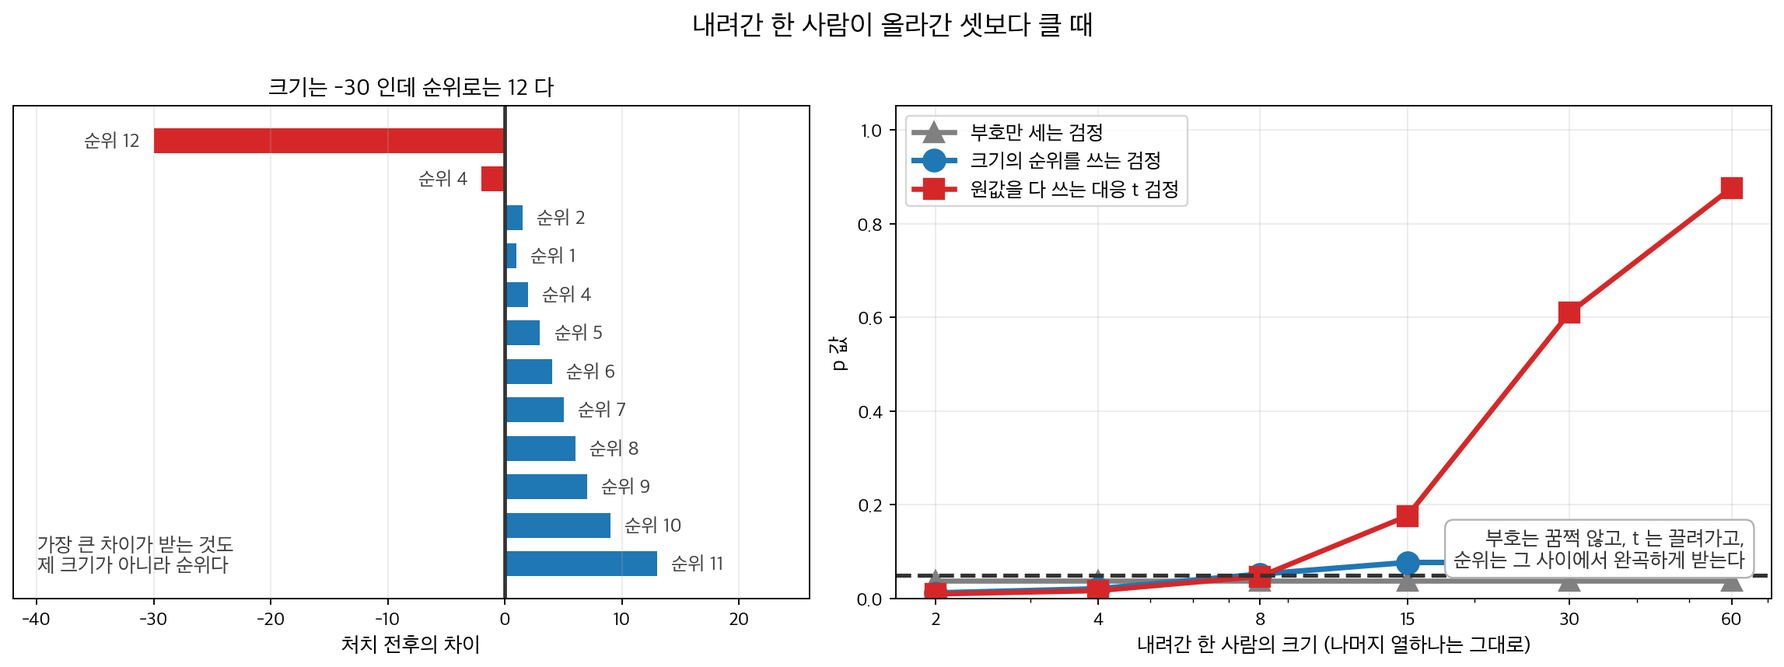
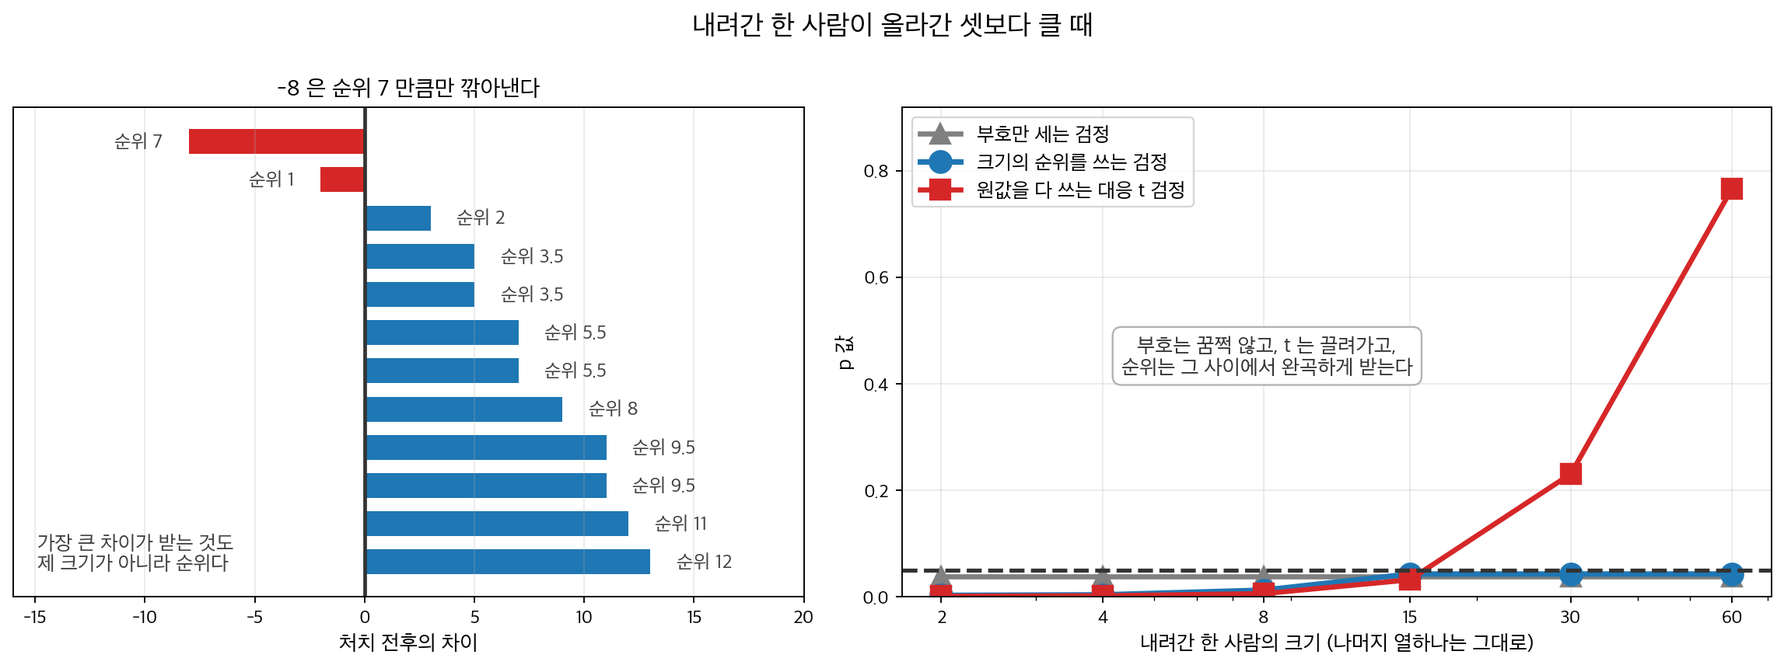
fix(ch16): 보고만 해 두었던 항목을 마무리한다
둘째 정독 패스가 고치지 않고 남긴 항목을 하나씩 판정해 끝냈다. 이미 닫힌 것과 보고가
틀린 것은 건드리지 않았고, 펜스를 고친 쪽은 실제로 돌린 출력을 붙여 verify_outputs 로
맞췄다. 그림을 다시 그린 것은 스크립트와 함께 담았다. 바깥 사실은 확인한 출처로만 고쳤다.

diff --git a/scripts/make_ch16_leadbox_figures_b.py b/scripts/make_ch16_leadbox_figures_b.py
@@ -273,7 +273,9 @@ save(fig, PAIR + "p_forgets_what_was_dropped.png")
 # 쪽들보다 클 때 둘을 어떻게 저울질할 것인가」 — 은 그려져 있지 않다.
 # 그 하나의 크기를 손잡이로 돌리면 세 검정이 저마다 다르게 반응한다.
 # ════════════════════════════════════════════════════════════════════
-BASE11 = np.array([13., 9., 7., 6., 5., 4., 3., 2., 1., 1.5, -2.])
+# 쪽의 보기 1 자료(7, 3, -2, 7, 5, 5, 9, -8, 11, 11, 12, 13)에서 -8 을 뺀 열하나.
+# 들머리 본문이 그 자료의 -8(순위 7)을 말하므로 같은 자료로 그린다.
+BASE11 = np.array([13., 12., 11., 11., 9., 7., 7., 5., 5., 3., -2.])
 DROPS = np.array([2, 4, 8, 15, 30, 60], float)
 p_sign, p_sr, p_t = [], [], []
 for d in DROPS:
@@ -291,20 +293,20 @@ for d, a, b, c in zip(DROPS, p_sign, p_sr, p_t):
 
 fig, (ax1, ax2) = plt.subplots(1, 2, figsize=(13.6, 5.0),
                                gridspec_kw={"width_ratios": [1, 1.1]})
-show = np.r_[BASE11, -30.0]
+show = np.r_[BASE11, -8.0]
 rk = stats.rankdata(np.abs(show))
 ax1.barh(np.arange(len(show)), show,
          color=["tab:blue" if v > 0 else "tab:red" for v in show],
          height=0.65)
 for i, v in enumerate(show):
-    ax1.text(v + (1.2 if v > 0 else -1.2), i, f"순위 {rk[i]:.0f}",
+    ax1.text(v + (1.2 if v > 0 else -1.2), i, f"순위 {rk[i]:g}",  # 중간순위 3.5 를 4 로 반올림하지 않는다
              ha="left" if v > 0 else "right", va="center", fontsize=10.5,
              color="0.25", fontweight="bold")
 ax1.axvline(0, color="0.2", lw=2.0)
 ax1.set_yticks([])
-ax1.set_xlim(-42, 26)
+ax1.set_xlim(-16, 20)
 ax1.set_xlabel("처치 전후의 차이", fontsize=11.5)
-ax1.set_title("크기는 -30 인데 순위로는 12 다", fontsize=12.5)
+ax1.set_title("-8 은 순위 7 만큼만 깎아낸다", fontsize=12.5)
 ax1.grid(axis="x", alpha=0.25)
 ax1.text(0.03, 0.05, "가장 큰 차이가 받는 것도\n제 크기가 아니라 순위다",
          transform=ax1.transAxes, ha="left", va="bottom", fontsize=11,
@@ -325,9 +327,9 @@ ax2.set_ylabel("p 값", fontsize=11.5)
 ax2.set_ylim(0, max(p_t) * 1.2)
 ax2.legend(fontsize=11, loc="upper left")
 ax2.grid(alpha=0.25)
-ax2.text(0.97, 0.06, "부호는 꿈쩍 않고, t 는 끌려가고,\n"
+ax2.text(0.42, 0.45, "부호는 꿈쩍 않고, t 는 끌려가고,\n"
          "순위는 그 사이에서 완곡하게 받는다", transform=ax2.transAxes,
-         ha="right", va="bottom", fontsize=11.3, color="0.2",
+         ha="center", va="bottom", fontsize=11.3, color="0.2",
          fontweight="bold",
          bbox=dict(boxstyle="round,pad=0.42", fc="white", ec="0.7"))
 

diff --git a/docs/ch16/one_sample_nonparametric/wilcoxon_signed_rank.md b/docs/ch16/one_sample_nonparametric/wilcoxon_signed_rank.md
@@ -1622,9 +1622,9 @@ $$
     method='approx' (동점 보정 분산): 0.007579
     ```
 
-    **손으로 센 $20/4096 = 0.004883$ 이 SciPy 의 정확계산과 소수 여섯째 자리까지 같다.** 그리고 0 을 그대로 둔 호출이 `method="approx"` 와 **똑같은 값**을 돌려준다는 것이 갈아탔다는 증거다.
+    **손으로 센 $20/4096 = 0.004883$ 이 SciPy 의 정확계산과 소수 여섯째 자리까지 같다.** 다만 이 일치는 이 자료의 우연이다. SciPy(1.13)의 `method="exact"` 는 중간순위를 보지 않고 동점이 없는 정수 순위 $1, \ldots, 12$ 의 귀무분포를 쓰는데, 이 자료에서는 그 분포에서도 $W^- \le 5$ 인 배정이 똑같이 열 가지다. 동점이 경계에 걸리는 자료, 예컨대 $D = (2, -2, -1, 1, -3, -3, -3, -2)$ 에서는 중간순위 조건부 분포의 양측 $p$ 가 $0.1016$ 인데 SciPy 는 경고 없이 $0.0781$ 을 돌려준다. 그리고 0 을 그대로 둔 호출이 `method="approx"` 와 **똑같은 값**을 돌려준다는 것이 갈아탔다는 증거다.
 
-    교훈이 둘이다. 첫째, **SciPy 에서 정확검정을 막는 것은 동점이 아니라 0 이다.** 동점은 순위를 중간순위로 묶어 놓을 뿐이고 그 위에서 부호를 뒤집는 조건부 분포는 떳떳하게 정확하다. 0 은 어느 `zero_method` 를 쓰느냐에 따라 $n$ 과 귀무분포 자체가 달라지므로 SciPy 가 정확분포를 하나로 정하지 않는다(0 의 개수를 조건으로 한 정확분포는 있다 — 「한 줄로 처리된 영」 상자가 손으로 세었다). 둘째, `method="exact"` 를 적었다고 정확검정이 돌았다는 보장이 없다. 돌아온 값이 `method="approx"` 와 같은지 한 번 견주어 보는 것이 값싼 보험이다.
+    교훈이 둘이다. 첫째, **SciPy 에서 정확검정을 막는 것은 동점이 아니라 0 이다.** 동점은 순위를 중간순위로 묶어 놓을 뿐이고 그 위에서 부호를 뒤집는 조건부 분포는 떳떳하게 정확하다 — 다만 SciPy 는 그 분포를 세지 않으므로 동점이 있으면 위처럼 손으로 세는 편이 안전하다. 0 은 어느 `zero_method` 를 쓰느냐에 따라 $n$ 과 귀무분포 자체가 달라지므로 SciPy 가 정확분포를 하나로 정하지 않는다(0 의 개수를 조건으로 한 정확분포는 있다 — 「한 줄로 처리된 영」 상자가 손으로 세었다). 둘째, `method="exact"` 를 적었다고 정확검정이 돌았다는 보장이 없다. 돌아온 값이 `method="approx"` 와 같은지 한 번 견주어 보는 것이 값싼 보험이다.
 
 ---
 
@@ -1750,7 +1750,7 @@ $$
 
     정규에서 $t$ 검정이 $0.7214$, 부호순위가 $0.6985$ 로 $0.0229$ 앞선다. $n$ 을 **하나만** 늘려 $21$ 로 하면 $0.7152$ 가 되어 차이가 $-0.0062$ 로 줄어든다. 한 칸의 모의표준오차가 $\sqrt{0.72 \cdot 0.28/50000} = 0.0020$ 이고 게다가 (1) 에서 본 대로 $n = 21$ 쪽이 실제 수준 $0.045993$ 으로 불리하게 출발하니, **$3/\pi$ 가 예측한 "$4.7\%$ 만 더" 가 그대로 맞는 셈이다.** $20 \times 1.0472 = 20.94$ 이고 올림하면 $21$ 이다.
 
-    꼬리가 두꺼워지면 방향이 뒤집힌다. 라플라스에서 이미 $0.7988$ 대 $0.7388$ 로 부호순위가 앞서고($\delta$ 를 고정한 채 분산만 1 로 맞추었다), $t_3/\sqrt{3}$ 에서 $0.8883$ 대 $0.8014$, 코시에서는 $0.2720$ 대 $0.0917$ 로 **세 배** 차이가 난다. 코시의 $t$ 검정 검정력 $0.0917$ 은 그 검정의 실제 수준 $0.0201$ 에 비하면 네 배지만 절대값으로는 거의 쓸 데가 없다.
+    꼬리가 두꺼워지면 방향이 뒤집힌다. 라플라스에서 이미 $0.7988$ 대 $0.7388$ 로 부호순위가 앞서고($\delta$ 를 고정한 채 분산만 1 로 맞추었다), $t_3/\sqrt{3}$ 에서 $0.8883$ 대 $0.8014$, 코시에서는 $0.2720$ 대 $0.0917$ 로 **세 배** 차이가 난다. 코시의 $t$ 검정 검정력 $0.0917$ 은 그 검정의 실제 수준 $0.0201$ 에 비하면 네 배 반이지만 절대값으로는 거의 쓸 데가 없다.
 
     **그래서 비모수를 고르는 일은 보험을 드는 일이다.** 정규일 때 내는 보험료는 표본 $4.7\%$ — 스무 명 모으는 연구에 한 명 더 — 이고, 받는 보상은 꼬리가 두꺼워질 때 검정력이 무너지지 않는 것이다. 연습문제 11 이 이 자료에서 "$t$ < 윌콕슨 < 부호검정 순으로 p 값이 커진다" 고 적은 것은 **그 자료가 정규에 가까웠기 때문**이고, 서열 자체가 법칙은 아니다. 라플라스 한 줄만 보아도 뒤집힌다.
 
@@ -1885,7 +1885,7 @@ $$
 
 <div class="drillbox" markdown>
 
-**연습문제 17.** <span class="diff med" title="중간"></span> `stats.wilcoxon`이 반환하는 `statistic`이 $W^+$가 아니라
+**연습문제 17.** <span class="diff med" title="중간"></span> 양측검정에서 `stats.wilcoxon`이 반환하는 `statistic`이 $W^+$가 아니라
 $\min(W^+, W^-)$임을 확인하고, `alternative`를 바꾸면 무엇이 달라지는지 조사하라.
 
 </div>

diff --git a/docs/ch16/correlation/spearman.md b/docs/ch16/correlation/spearman.md
@@ -6,7 +6,7 @@
 
 한 분석가가 직원 $8$ 명의 경력과 고객만족도를 늘어놓고 순위로 바꾼다. 그런데 경력에서는 $8$ 이 두 번, $10$ 이 두 번 나오고 만족도에서도 $6$, $8$, $9$ 가 각각 두 번씩 나온다. 교과서가 외우게 하는 축약 공식에 이 자료를 넣으면 $0.393$ 이 나오는데, 참값은 $0.374$ 다.
 
-어디서 어긋나는지는 식을 풀면 보인다. 축약 공식은 **「평균을 뺀 순위의 제곱합(sum of squares)이 양쪽 모두 $42$ 다」**라는 사실을 몰래 쓰고 있다. 같은 값이 섞이면 그 제곱합이 $41$ 과 $40.5$ 로 **줄어드는데** 공식은 여전히 $42$ 를 쓰므로 참값보다 크게 나온다. 같은 값이 많아질수록 제곱합이 더 줄고 오차도 커진다. 그런 자료에서는 중간순위에 피어슨 공식을 그대로 적용하는 것이 맞다.
+어디서 어긋나는지는 식을 풀면 보인다. 축약 공식은 **「평균을 뺀 순위의 제곱합(sum of squares)이 양쪽 모두 $42$ 다」**라는 사실을 몰래 쓰고 있다. 같은 값이 섞이면 그 제곱합이 $41$ 과 $40.5$ 로 **줄어드는데** 공식은 여전히 $42$ 를 쓰므로 참값보다 크게 나온다. 같은 값이 많아질수록 제곱합이 더 줄고 오차도 평균적으로 커진다. 그런 자료에서는 중간순위에 피어슨 공식을 그대로 적용하는 것이 맞다.
 
 계수를 바로 구해도 $p$ 값에서 또 어긋날 수 있다. 관계가 완전히 단조여서 계수가 정확히 $1$ 이 되면 널리 쓰이는 근사의 분모가 $0$ 으로 가서, 여덟 쌍짜리 자료에서 $p$ 값이 $0.0$ 으로, 다섯 쌍짜리에서는 $1.4 \times 10^{-24}$ 으로 찍힌다. 순열을 전부 세어 얻은 참값은 각각 $2/40320 = 0.0000496$ 과 $2/120 = 0.0167$ 이다. 다섯 쌍으로 「$p < 10^{-23}$」을 보고하는 일이 그렇게 생긴다.
 
@@ -207,7 +207,7 @@ $$
     1 - \frac{6 \times 51}{504} = 1 - \frac{306}{504} = 0.392857
     $$
 
-    로 참값보다 $0.0186$ 크게 나온다. 동점이 많아질수록 제곱합이 더 줄고 오차가 커진다.
+    로 참값보다 $0.0186$ 크게 나온다. 동점이 많아질수록 제곱합이 더 줄고 오차가 평균적으로 커진다(두 변수의 제곱합이 다르면 오차의 부호조차 미리 정해지지 않는다 — 연습문제 6(c)).
 
     **(2) `spearmanr` 의 p 값은 $t$ 근사다.** 확인해 보면
 
@@ -855,7 +855,7 @@ $$
     \bigl(\sqrt A - \sqrt B\bigr)^2 \le D\,\frac{C - M}{C}
     $$
 
-    와 동치다. 왼쪽은 $A = B$ 일 때 $0$ 이어서 (앞의 결론처럼) 부등식이 공짜로 성립하지만, $A \ne B$ 이면 $D$ 가 충분히 커야 한다는 **조건부**가 된다. $D \ge A + B - 2M = (\sqrt A - \sqrt B)^2$ 는 코시–슈바르츠 부등식(Cauchy–Schwarz inequality)에서 늘 성립하므로 두 변이 서로 비슷한 크기로 맞서고, 따라서 $A \le C$, $B \le C$ 라는 사실만으로는 부호가 결정되지 않는다. **$A = B$ 일 때의 깔끔한 결론에 그 조건이 꼭 필요했던 까닭이 이것이다.**
+    와 동치다. 왼쪽은 $A = B$ 일 때 $0$ 이어서 (앞의 결론처럼) 부등식이 공짜로 성립하지만, $A \ne B$ 이면 $D$ 가 충분히 커야 한다는 **조건부**가 된다. $D \ge A + B - 2M = (\sqrt A - \sqrt B)^2$ 는 코시–슈바르츠 부등식(Cauchy–Schwarz inequality)에서 늘 성립하지만, 오른쪽에는 $1$ 보다 작은 인수 $(C - M)/C$ 가 곱해져 있어 이것만으로는 왼쪽을 넘는다고 말할 수 없다. 따라서 $A \le C$, $B \le C$ 라는 사실만으로는 부호가 결정되지 않는다. **$A = B$ 일 때의 깔끔한 결론에 그 조건이 꼭 필요했던 까닭이 이것이다.**
 
     실무적 결론은 그대로다. 보기 1 처럼 $A \approx B$ 인 흔한 상황에서는 축약 공식이 $r_s$ 를 위로 밀어 양의 연관을 과대평가하고, 오차의 크기는 두 항의 경쟁으로 정해져 미리 가늠하기 어렵다. 5 절의 경고가 "보정해서 쓰라" 가 아니라 **"쓰지 말라"** 인 까닭이다.
 

diff --git a/docs/ch16/multi_group_nonparametric/kruskal_wallis.md b/docs/ch16/multi_group_nonparametric/kruskal_wallis.md
@@ -357,7 +357,7 @@ $$
 - **쌍별 만–휘트니 검정** --- $\binom{k}{2}$개의 이표본 검정을 본페로니 보정과 함께 수행한다.
 
 !!! warning "전체검정을 건너뛰지 말 것"
-    사후 쌍별 비교는 크러스컬–월리스 검정이 $H_0$을 기각한 뒤에만 수행해야 한다. 전체적인 차이를 먼저 확인하지 않고 쌍별 검정을 하면 가족단위 오류율(familywise error rate)이 부풀려진다.
+    사후 쌍별 비교는 크러스컬–월리스 검정이 $H_0$을 기각한 뒤에만 수행해야 한다. 전체적인 차이를 먼저 확인하지 않고 보정 없이 쌍별 검정을 하면 가족단위 오류율(familywise error rate)이 부풀려진다. 본페로니·홀름 보정은 그 자체로 가족단위 오류율을 지키므로, 보정을 붙인다면 전체검정은 오류율을 지키는 장치라기보다 관행상의 관문이다. 그 관문을 거치면 검정이 한 번 더 보수적이 된다는 것은 [던 검정](dunn.md) 쪽의 표가 보인다.
 
 ### 작은 N 에서 카이제곱 근사는 얼마나 믿을 만한가
 
@@ -758,7 +758,7 @@ $$
 
     세 비료가 서로 다른 생장 분포를 낸다는 유의한 증거가 있다. 어느 쌍이 다른지는 사후분석(예: 던 검정)으로 판정해야 한다.
 
-    참고로 일원분산분석은 $p = 0.00106$으로 훨씬 작은 값을 준다. 이 자료가 정규성과 등분산성을 잘 만족하고 $n_i = 4$로 매우 작아, 순위로 정보를 버리는 대가가 크게 나타난 경우이다.
+    참고로 일원분산분석은 $p = 0.00106$으로 훨씬 작은 값을 준다. 이 자료에는 정규성이나 등분산성을 의심할 기색이 없고(집단 표준편차 $2.08$, $2.50$, $1.71$) $n_i = 4$로 매우 작아, 순위로 정보를 버리는 대가가 크게 나타난 경우이다.
 
 <div class="drillbox" markdown>
 
@@ -1557,7 +1557,7 @@ $$
 
     $t_2$ 에서 $H$ 는 같은 표본으로 $F$ 의 $0.4679/0.2409 = 1.94$ 배 검정력을 내고, 표본을 $5\%$ 더 주면 $2.06$ 배다. 코시분포에서는 같은 표본으로 $0.2843/0.0406 = 7.00$ 배, $5\%$ 더 주면 $7.24$ 배다. 코시분포에서 $F$ 의 검정력 $0.0406$ 은 자기 수준 $0.0185$ 보다는 높지만 명목수준 $0.05$ 에도 못 미치는 값이고, 이동이 분명히 있는 자료를 사실상 **못 보는** 상태다. (코시분포는 평균이 아예 없으므로 $F$ 가 비교하려는 대상 자체가 존재하지 않는다. 위치이동은 여전히 뜻이 있고, 순위는 그것을 본다.)
 
-    **한 문장 요약:** 정규성이 참일 때 순위로 치르는 대가는 집단당 관측값 하나($4.7\%$)이고, 꼬리가 두꺼워질 때 얻는 이득은 검정력 두 배에서 일곱 배다 — 트레이드오프(trade-off)가 이토록 한쪽으로 기울어 있다는 것이 비모수 검정을 기본값으로 삼을 만한 이유다.
+    **한 문장 요약:** 정규성이 참일 때 순위로 치르는 대가는 집단당 관측값 하나($4.7\%$)이고, 꼬리가 두꺼워질 때 얻는 이득은 검정력 두 배에서 일곱 배다 — 트레이드오프(trade-off)가 이토록 한쪽으로 기울어 있다는 것이 집단이 위치만 다를 때 비모수 검정을 기본값으로 삼을 만한 이유다(척도까지 다르면 사정이 달라진다는 것은 연습문제 9).
 
 <div class="drillbox" markdown>
 

diff --git a/docs/ch16/one_sample_nonparametric/sign_test.md b/docs/ch16/one_sample_nonparametric/sign_test.md
@@ -174,7 +174,7 @@ $$
 | $p$ | $0.50$ | $0.51$ | $0.52$ |
 |---|---|---|---|
 | 그 해에 남아가 더 많을 확률 | $0.496$ | $0.977$ | $1.000$ |
-| $82$ 해 내리 그럴 확률 | $\approx 0$ | $0.15$ | $0.997$ |
+| $82$ 해 내리 그럴 확률 | $\approx 0$ | $0.14$ | $0.997$ |
 
 $2$ 퍼센트만 기울어도 $82$ 해 연속은 거의 확실해진다. 아버스넛이 무너뜨린 것은 **정확한 반반**이었고, 그 자리를 섭리로 채운 것은 자료가 아니라 그였다. 부호검정이 주는 것은 확률이지 까닭이 아니다.
 
@@ -1366,7 +1366,7 @@ $-3, +1, -2, 0, -4, -1, +2, -5$이다. 정확 이항분포로 $\alpha = 0.05$에
 
 <div class="drillbox" markdown>
 
-**연습문제 12.** <span class="diff med" title="중간"></span> 학생 자료 보기에서 $H_a{:}\; \text{median}(D) > 0$(처치가 점수를
+**연습문제 12.** <span class="diff med" title="중간"></span> 보기 5 의 학생 자료에서 $H_a{:}\; \text{median}(D) > 0$(처치가 점수를
 높인다)인 단측검정으로 부호검정을 다시 수행하라. $\alpha = 0.05$에서 결론을 밝혀라.
 
 </div>
@@ -1539,7 +1539,7 @@ $$
 
 <div class="drillbox" markdown>
 
-**연습문제 16.** <span class="diff med" title="중간"></span> 부호검정과 윌콕슨 부호순위검정, 대응 $t$ 검정을 학생 자료에
+**연습문제 16.** <span class="diff med" title="중간"></span> 부호검정과 윌콕슨 부호순위검정, 대응 $t$ 검정을 보기 5 의 학생 자료에
 모두 적용하여 $p$ 값을 비교하고, 순서가 왜 그렇게 나오는지 설명하라.
 
 </div>
@@ -1552,8 +1552,9 @@ $$
     d = np.array([17, -2, 6, -3, 14, 0, 6, 10, 12, 8, 9, 2, 0, 3, 0])
 
     print(stats.binomtest(10, 12).pvalue)                        # 0.038574
-    print(stats.wilcoxon(d, zero_method='wilcox',
-                         method='exact').pvalue)                 # 0.007579
+    # 0 을 버리고 동점(|d| = 2, 3, 6)이 있는 그대로 2^12 가지 부호를 전부 센다
+    print(stats.wilcoxon(d[d != 0],
+          method=stats.PermutationMethod(n_resamples=np.inf)).pvalue)   # 0.004883
     print(stats.ttest_1samp(d, 0).pvalue)                        # 0.003816
     ```
 
@@ -1561,18 +1562,20 @@ $$
 
     ```
     0.03857421875
-    0.007579201614253502
+    0.0048828125
     0.003815602209766083
     ```
 
     | 검정 | 양측 $p$ 값 | 사용 정보 |
     |:---|---:|:---|
     | 부호검정 (정확) | $0.0386$ | 부호만 |
-    | 윌콕슨 부호순위 (정확) | $0.0076$ | 부호 + 순위 |
+    | 윌콕슨 부호순위 (정확) | $0.0049$ | 부호 + 순위 |
     | 대응 $t$ | $0.0038$ | 원값 |
 
     사용하는 정보량이 늘어날수록 $p$ 값이 작아진다. 이 자료에서는 그 서열이
-    깨끗하게 나타난다.
+    깨끗하게 나타난다. 윌콕슨을 `wilcoxon(d, method='exact')` 로 0 째 넘기면 SciPy 가
+    경고와 함께 정규근사로 갈아타 $0.0076$ 을 내는데, 그것은 정확값이 아니다
+    ([윌콕슨 부호순위검정](wilcoxon_signed_rank.md) 연습문제 14).
 
     **왜 이 자료가 부호검정에 특히 불리한가.** 음의 차이 두 개가 $-2$와 $-3$으로
     **절댓값이 가장 작은 축**이다. 양의 차이는 $2$부터 $17$까지 퍼져 있다.

diff --git a/docs/ch16/paired_sample_nonparametric/paired_sign.md b/docs/ch16/paired_sample_nonparametric/paired_sign.md
@@ -415,39 +415,40 @@ _확인한 곳 — 논문이 Joseph Putter 의 「The Treatment of Ties in Some 
     부호검정을 역전시키면 중앙값의 신뢰구간이 나온다. 차이를 정렬한 순서통계량 $D_{(1)} \le \cdots \le D_{(n)}$에 대해 구간은
 
     $$
-    \bigl( D_{(k+1)}, \; D_{(n-k)} \bigr)
+    \bigl[ D_{(k)}, \; D_{(n+1-k)} \bigr]
     $$
 
-    이며, $k$는 $2P(S \le k) \le \alpha$를 만족하는 가장 큰 정수이다($S \sim \text{Binomial}(n, 0.5)$).
+    이며, $k$는 $2P(S \le k-1) \le \alpha$를 만족하는 가장 큰 정수이다($S \sim \text{Binomial}(n, 0.5)$). 보기 2 의 $[d_{(k)}, d_{(11-k)}]$ 와 같은 꼴이다.
 
     ```python
     import numpy as np
     from scipy import stats
     d = np.array([4, 5, -2, 2, 7, 0, 8, 2, 3, -2])
     nz = np.sort(d[d != 0]); n = len(nz)     # n = 9
-    for k in range(0, 4):
-        print(k, 2 * stats.binom.cdf(k, n, 0.5))
-    # k=0: 0.0039, k=1: 0.0391, k=2: 0.1797  →  k = 1
+    for k in range(1, 5):
+        print(k, 2 * stats.binom.cdf(k - 1, n, 0.5))
+    # k=1: 0.0039, k=2: 0.0391, k=3: 0.1797  →  k = 2
+    k = 2
     print(nz)                     # [-2 -2  2  2  3  4  5  7  8]
-    print(nz[1], nz[n - 2])       # -2, 7
+    print(nz[k - 1], nz[n - k])   # D_(2), D_(8) = -2, 7
     ```
 
     출력:
 
     ```
-    0 0.00390625
-    1 0.0390625
-    2 0.1796875
-    3 0.5078125
+    1 0.00390625
+    2 0.0390625
+    3 0.1796875
+    4 0.5078125
     [-2 -2  2  2  3  4  5  7  8]
     -2 7
     ```
 
-    $k = 1$이므로 95% 신뢰구간은 $\bigl(D_{(2)}, D_{(8)}\bigr) = (-2, \; 7)$이다.
+    $k = 2$이므로 95% 신뢰구간은 $\bigl[D_{(2)}, D_{(8)}\bigr] = [-2, \; 7]$이다.
 
     구간이 $0$을 포함하므로 검정 결과와 일관된다. 이 구간은 양측 구간이므로 맞댈 것은 양측 $p$ 값 $2 \times 0.0898 = 0.1797$ 이고, 이것이 구간의 수준 $0.0391$ 보다 크므로 기각하지 못한다. 구간과 검정이 이렇게 맞물리는 것은 구간이 검정을 역전시켜 만들어졌기 때문이다.
 
-    구간이 매우 넓다는 점에 주목하라. 폭이 $9$ bpm으로, 자료 전체 범위($-2$에서 $8$)와 거의 같다. $n = 9$에서 부호검정 기반 구간이 쓸 수 있는 것은 $k = 1$뿐이므로 양 끝에서 하나씩만 잘라 낼 수 있다. 실제 포함확률은 $1 - 0.0391 = 0.961$로 명목값보다 높다. 소표본에서 부호검정 구간이 지나치게 보수적인 이유이다.
+    구간이 매우 넓다는 점에 주목하라. 폭이 $9$ bpm으로, 자료 전체 범위($-2$에서 $8$)와 거의 같다. $n = 9$에서 부호검정 기반 구간이 쓸 수 있는 것은 $k = 2$뿐이므로 양 끝에서 하나씩만 잘라 낼 수 있다. 실제 포함확률은 $1 - 0.0391 = 0.961$로 명목값보다 높다. 소표본에서 부호검정 구간이 지나치게 보수적인 이유이다.
 
 <div class="drillbox" markdown>
 

diff --git a/docs/ch16/paired_sample_nonparametric/paired_wilcoxon.md b/docs/ch16/paired_sample_nonparametric/paired_wilcoxon.md
@@ -13,8 +13,8 @@
 그렇다면 차이의 크기를 순위로 들여와 얻는 것과 대칭이라는 가정에 치르는 값은 각각 얼마인가. 이 쪽이 절차를 다섯 단계로 끊고, 같은 크기의 차이에 중간순위를 주는 셈과 그에 딸린 분산 보정을 적은 뒤, 이 검정이 왜 부호검정보다 강력한지를 수로 보인다.
 
 <figure markdown>
-  ![두 칸짜리 그림. 왼쪽은 열두 사람의 차이를 가로막대로 그리고 각 막대에 절대크기의 순위를 적은 것으로, 크기가 마이너스 30 인 막대도 순위로는 12 다. 오른쪽은 그 한 사람의 크기를 2 에서 60 까지 키울 때 세 검정의 p 값으로, 부호는 평평하고 t 는 0.88 까지 치솟으며 순위는 그 사이에 있다](./img/ranks_soften_the_one_drop.png){ width="900" }
-  <figcaption markdown>**왼쪽.** 저울질이 완곡하다. 가장 큰 차이가 받는 것은 제 크기가 아니라 **순위**이고, 내려간 사람도 제 크기가 아니라 순위만큼만 깎아낸다. **오른쪽.** 그래서 그 한 사람의 크기를 $-2$ 에서 $-60$ 까지 키우면 세 검정이 저마다 다르게 반응한다 — 부호만 세는 쪽은 $0.0386$ 에서 꿈쩍도 하지 않고(부호가 바뀌지 않으니까), 원값을 다 쓰는 $t$ 검정은 $0.0097$ 에서 $0.8764$ 로 끌려가며, 순위를 쓰는 쪽은 $0.0122$ 에서 $0.0771$ 까지 올랐다가 **멈춘다.** 순위가 매길 수 있는 가장 큰 값이 $12$ 라 더 커질 데가 없기 때문이다. 쓰는 정보의 양이 그대로 그 세 반응이다.</figcaption>
+  ![두 칸짜리 그림. 왼쪽은 열두 사람의 차이를 가로막대로 그리고 각 막대에 절대크기의 순위를 적은 것으로, 크기가 마이너스 8 인 막대는 순위로 7 이다. 오른쪽은 그 한 사람의 크기를 2 에서 60 까지 키울 때 세 검정의 양측 p 값으로, 부호는 평평하고 t 는 0.77 까지 치솟으며 순위는 0.04 에서 멈춘다](./img/ranks_soften_the_one_drop.png){ width="900" }
+  <figcaption markdown>**왼쪽.** 저울질이 완곡하다. 가장 큰 차이가 받는 것은 제 크기가 아니라 **순위**이고, 내려간 사람도 제 크기가 아니라 순위만큼만 깎아낸다. **오른쪽.** 그래서 $-8$ 의 크기를 $-2$ 에서 $-60$ 까지 바꾸면(나머지 열하나는 그대로) 세 검정의 양측 $p$ 값이 저마다 다르게 반응한다 — 부호만 세는 쪽은 $0.0386$ 에서 꿈쩍도 하지 않고(부호가 바뀌지 않으니까), 원값을 다 쓰는 $t$ 검정은 $0.0009$ 에서 $0.7664$ 로 끌려가며, 순위를 쓰는 쪽은 $0.0024$ 에서 $0.0425$ 까지 올랐다가 **멈춘다.** 순위가 매길 수 있는 가장 큰 값이 $12$ 라 더 커질 데가 없기 때문이다. 쓰는 정보의 양이 그대로 그 세 반응이다.</figcaption>
 </figure>
 </div>
 
